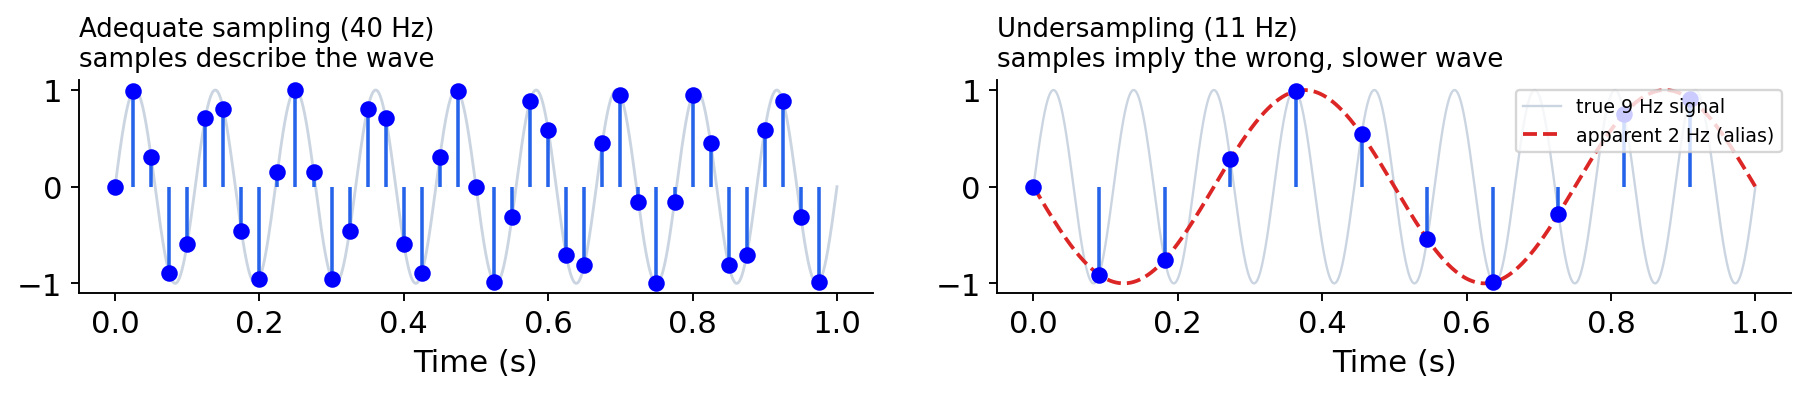
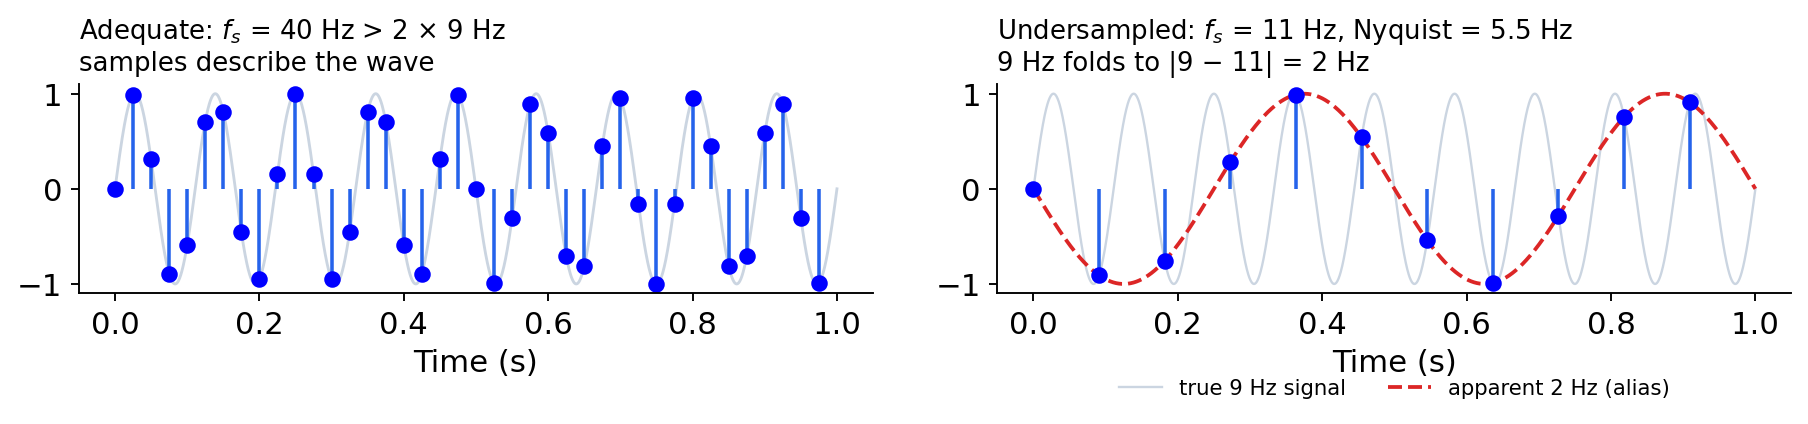
changes in lecture 2

diff --git a/lectures/lecture2.md b/lectures/lecture2.md
@@ -44,7 +44,7 @@ title: Today
 
 - **Linguistic units**: syllable, vowel, consonant
 - **Acoustics**: waveform, amplitude, frequency, Hertz, period
-- **Digitization**: sampling, quantization, framing
+- **Digitization**: sampling, Nyquist and aliasing, quantization, framing
 - **Describing the signal**: pitch, loudness, intensity, F0
 - **Formants**: why vowels sound different
 - **Spectrogram**: putting all of it into one picture
@@ -92,11 +92,11 @@ title: Syllable structure
 
 :: content ::
 
-- A **syllable** is a single unbroken unit of spoken sound that contains exactly **one vowel** sound, with or without surrounding consonant sounds.
-- The vowel at the core is the **nucleus** (every syllable has exactly one); consonants before it are the **onset**, after it the **coda**. Nucleus + coda = the **rime**.
-- <span dir="rtl" lang="ar" class="font-bold">مَدْرَسَة</span> (madrasa) splits into onset·nucleus syllables just like "banana" does.
+- A **syllable** is a single unbroken unit of spoken sound built around exactly **one nucleus**, usually a vowel, with or without surrounding consonant sounds.
+- The **nucleus** is the core (every syllable has exactly one); consonants before it are the **onset**, after it the **coda**. Nucleus + coda = the **rime**. The nucleus can also be a consonant: *button*.
+- Examples: "banana" and <span dir="rtl" lang="ar" class="font-bold">مَدْرَسَة</span> (madrasa).
 
-<img src="./images/lec2_syllable.png" class="w-full mt-3" style="max-height: 260px; object-fit: contain;" />
+<img src="./images/lec2_syllable.png" class="w-full mt-3" style="max-height: 200px; object-fit: contain;" />
 
 ---
 layout: top-title-two-cols
@@ -114,7 +114,7 @@ title: Vowel vs consonant
 
 ## Vowels
 
-- Open vocal tract, no major obstruction — always voiced.
+- Open vocal tract, no major obstruction; normally voiced (exceptions: whispered vowels, and devoiced vowels such as the final *u* in Japanese *desu*).
 - Carry the syllable nucleus; tend to be louder and longer.
 
 <AdmonitionType type='important'>
@@ -158,14 +158,15 @@ title: Waveform
 
 - Speech is air pressure changing over time. The **waveform** plots that pressure (y-axis) against time (x-axis).
 - A pure tone is a sine wave: $y = A \sin(2\pi f t)$
-- Real speech is a sum of many such waves at once — that's what makes it look messy, not random.
+- **Voiced** speech (vowels, nasals) is a sum of many such waves at once: messy-looking, but not random, because it repeats.
+- **Voiceless** sounds (/s/, /f/, bursts, aspiration) are aperiodic noise: they really are random-looking.
 - Silence, a vowel, and a consonant each leave a visually distinct signature.
 
 :: right ::
 
 <img src="./images/lec2_waveform_cat.png" class="w-full" />
 
-Idealized waveform for **"cat"**: burst (/k/), a periodic, voiced stretch (/æ/), then a second burst (/t/).
+Idealized waveform for **"cat"**: the /k/ burst and aspiration (aperiodic noise) run straight into the periodic, voiced /æ/; then silence while the tongue closes for /t/, and its release burst.
 
 ---
 layout: top-title
@@ -182,9 +183,10 @@ title: Amplitude
 
 - **Amplitude** is the size of the pressure swing — how far the waveform deflects from zero.
 - Larger amplitude → louder sound (we'll formalize "loud" as intensity shortly).
-- The same word, spoken loud vs. soft, has the same *shape* but a different *scale*.
+- Turning a **volume knob** only rescales the waveform: same *shape*, different *size*.
+<!-- - A **speaker** talking louder changes more than size: vocal effort raises F0 and F1, flattens the spectral tilt (sharper pulses, more high-frequency energy), and lengthens vowels, automatically so in noise (the **Lombard effect**). Gain normalization can't undo that. -->
 
-<img src="./images/lec2_amplitude.png" class="w-full mt-2" style="max-height: 260px; object-fit: contain;" />
+<img src="./images/lec2_amplitude.png" class="w-full mt-2" style="max-height: 190px; object-fit: contain;" />
 
 ---
 layout: top-title-two-cols
@@ -204,7 +206,7 @@ title: Frequency, Hz, period
 - **Hertz (Hz)**: the unit of frequency — 1 Hz = 1 cycle/second.
 - **Period** ($T$): the time for *one* cycle to complete: $T = 1/f$.
 - A pure 440 Hz tone repeats every $1/440 \approx 2.27$ ms.
-- Speech is **not** a pure tone — it's periodic-*ish*, a sum of a fundamental frequency plus its harmonics (multiples of it).
+- Voiced speech is **not** a pure tone: it's quasi-periodic, a fundamental frequency plus harmonics at integer multiples of it. Voiceless sounds (/s/, /f/) have no period at all.
 
 :: right ::
 
@@ -235,14 +237,34 @@ title: Sampling
 :: content ::
 
 - The waveform is **continuous** — infinitely many values in any interval. A computer can't store that, so **sampling** measures the amplitude at regular intervals and keeps only those points.
-- **Sampling rate**: samples/second (Hz). Microphone data: **16 kHz**; telephone speech: **8 kHz**.
-- Sampling too slowly creates a false lower-frequency wave (aliasing), and it causes audible distortion.
-
-<img src="./images/lec2_aliasing.png" class="w-full mt-2" style="max-height: 230px; object-fit: contain;" />
+- **Sampling rate** $f_s$: samples/second (Hz).
+  - Phones and laptops typically record at **44.1 or 48 kHz**. 
+  - Most ASR models expect **16 kHz** (wideband speech).
+  - Telephone speech: **8 kHz** (narrowband, roughly 300–3400 Hz passes).
+- A sampling rate can only represent frequencies below **half** of it (next slide).
 
 <AdmonitionType type='important'>
-Sample fast enough to capture the frequencies that matter — mostly below 8 kHz for speech intelligibility, which is why 16 kHz is standard.
+16 kHz keeps everything below 8 kHz, which covers the frequencies that matter most for intelligibility. That's why it's the ASR standard.
 </AdmonitionType>
+
+---
+layout: top-title
+color: light
+align: lt
+title: Nyquist and aliasing
+---
+
+:: title ::
+
+# Nyquist and Aliasing
+
+:: content ::
+
+- **Nyquist rule**: to represent a frequency $f_{max}$ you need $f_s > 2 f_{max}$. Equivalently, $f_s/2$ (the **Nyquist frequency**) is the highest frequency a sampling rate can hold.
+- A component above $f_s/2$ doesn't disappear: it **folds** to $|f - k \cdot f_s|$ (the nearest multiple $k$ of $f_s$), a false lower-frequency wave. That is **aliasing**.
+- In the figure: $f_s = 11$ Hz, so Nyquist is 5.5 Hz, and the 9 Hz wave shows up as $|9 - 11| = 2$ Hz.
+
+<img src="./images/lec2_aliasing.png" class="w-full mt-2" style="max-height: 170px; object-fit: contain;" />
 
 
 ---
@@ -260,7 +282,7 @@ title: Quantization
 
 - Bit: the basic unit of digital storage — a single binary digit, either 0 or 1. n bits can represent 2ⁿ distinct values, so more bits = more possible amplitude levels to round to. 
 - Bit depth is simply how many bits are used per sample.
-- Quantization measures how precisely each amplitude is rounded to one of a fixed number of levels, set by the **bit depth**.
+- **Quantization** rounds each sample's amplitude to the nearest of a fixed number of levels, set by the **bit depth**.
 - 16-bit audio → 65,536 levels, rounding error (**quantization noise**) far too small to hear.
 - Fewer bits → fewer levels → a visible "staircase" and audible noise.
 
@@ -282,9 +304,9 @@ title: Framing
 
 - Speech is **non-stationary** — its frequency content changes constantly, but most analysis techniques (starting next week: DFT/FFT) assume the signal is stationary over the window they look at.
 - Solution: **framing** — cut the signal into short, overlapping windows (~25 ms, sliding by ~10 ms), short enough to look roughly stationary inside each one.
-- Overlap ensures we don't miss anything that falls near a frame boundary.
+- Each frame is multiplied by a **window** (e.g., Hamming) that fades its edges toward zero; overlap gives samples near one frame's edge full weight in the next frame.
 
-<img src="./images/lec2_framing.png" class="w-full mt--1" />
+<img src="./images/lec2_framing.png" class="w-full mt--3" />
 
 <AdmonitionType type='tip'>
 "Frame length and hop size" reappear in exactly this form for STFT and MFCCs next week.
@@ -315,16 +337,17 @@ title: Pitch, loudness, intensity
 
 :: content ::
 
-- **Intensity**: the physical energy of the sound wave — proportional to amplitude squared ($I \propto A^2$). Measured in decibels (dB).
+- **Intensity**: the power per unit area carried by the sound wave, proportional to amplitude squared ($I \propto A^2$), in decibels relative to a reference (dB SPL in air). 
 - **Loudness**: our *perception* of intensity. Related to intensity, but not identical — perception is nonlinear and frequency-dependent.
 - **Pitch**: our *perception* of frequency — how high or low a sound seems. Related to frequency, but subjective.
 
 <!-- :: right :: -->
 
-- **F0 (fundamental frequency)**: the physical measurement most closely underlying perceived pitch — the lowest, dominant frequency of a periodic waveform (the rate the vocal folds vibrate at).
+- **F0 (fundamental frequency)**: the physical measurement most closely underlying perceived pitch: the repetition rate of a periodic waveform ($1/T$), i.e., the rate the vocal folds vibrate at. 
+  <!-- Harmonics sit at integer multiples of F0; F0 itself need not be the strongest component, or even present (telephone speech cuts below ~300 Hz, yet a ~110 Hz male pitch is still heard: the **missing fundamental**). -->
 
 <AdmonitionType type='note'>
-Keep the pattern straight: <strong>F0/intensity</strong> are what we measure from the signal; <strong>pitch/loudness</strong> are what a listener experiences. They correlate strongly but are not the same thing.
+<strong>F0/intensity</strong> are what we measure from the signal; <strong>pitch/loudness</strong> are what a listener experiences. They correlate strongly but are not the same thing.
 </AdmonitionType>
 
 ---
@@ -342,8 +365,9 @@ title: F0 contour
 
 - F0 isn't a single number for a whole utterance — it changes continuously. Tracking it frame-by-frame gives a **pitch contour** (or **pitch track**).
 - The same words, said with a different pitch contour, can mean something different.
+- F0 exists only where the vocal folds vibrate: the track **breaks** at the voiceless /k/ of "coming". That gap is exactly the voiced/unvoiced marking you'll do in Assignment 2.
 
-<img src="./images/lec2_f0_contour.png" class="w-full mt-3" style="max-height: 280px; object-fit: contain;" />
+<img src="./images/lec2_f0_contour.png" class="w-full mt-2" style="max-height: 170px; object-fit: contain;" />
 
 <AdmonitionType type='note'>
 <strong>RMS (root-mean-square) amplitude</strong> — the standard frame-level measurement of intensity, computed the same frame-by-frame way as F0.
@@ -374,7 +398,7 @@ title: Source-filter model
 
 :: content ::
 
-- **Source**: the vocal folds vibrate, producing a buzz-like sound rich in harmonics (multiples of F0).
+- **Source**: in voiced sounds, the vocal folds vibrate, producing a buzz-like sound rich in harmonics (multiples of F0). In voiceless sounds, the source is turbulent **noise** at a constriction (/s/, /f/, aspiration, bursts), with no F0 at all. Voiced fricatives (/z/, /v/) use both sources at once.
 - **Filter**: the vocal tract (throat, mouth, nose) is a resonant cavity whose *shape* — set by tongue position, jaw, lips — amplifies some frequencies and damps others.
 - Change the vocal tract shape (move your tongue) without changing the source (F0), and you change which frequencies come through loudest — that's what turns the same buzz into different vowels.
 - The frequencies the vocal tract resonates at, and therefore amplifies, are called **formants**.
@@ -384,9 +408,10 @@ Say "ee" then "ah" while gently touching your throat — the buzz (source) barel
 </AdmonitionType>
 
 ---
-layout: top-title
+layout: top-title # -two-cols
 color: light
-align: lt
+columns: is-7
+# align: l-lt-cm
 title: F1 and F2
 ---
 
@@ -396,11 +421,15 @@ title: F1 and F2
 
 :: content ::
 
-- Formants are numbered by frequency, lowest first: **F1** is the vocal tract's *lowest* resonant frequency, **F2** the *next* one up (F3, F4, … exist too, but F1/F2 carry most of the information that distinguishes vowels).
-- On a spectrogram, formants appear as the darkest horizontal bands above F0 — literally the frequency ranges the vocal tract let through the loudest.
-- **F1 correlates with tongue height**: high tongue (e.g. "ee") → low F1; low tongue (e.g. "ah") → high F1.
-- **F2 correlates with tongue frontness/backness**: front tongue (e.g. "ee") → high F2; back tongue (e.g. "oo") → low F2.
-- This means F1/F2 aren't arbitrary numbers — they're a direct readout of where your tongue was.
+- **F1** is the vocal tract's *lowest* resonance, **F2** the *next* one up; they carry most of what distinguishes vowels.
+<!-- - On a spectrogram: dark horizontal bands. They're resonances of the filter, not harmonics, so they don't depend on F0, and needn't lie above it (a child's F0 can reach the F1 of /i/). -->
+- **F1 ↔ tongue height**: high ("ee") → low F1; low ("ah") → high F1.
+- **F2 ↔ frontness**: front ("ee") → high F2; back ("oo") → low F2. **Lip rounding** also lowers F2.
+<!-- - **Not a direct readout**: a shorter vocal tract raises *every* formant (women, children), and different articulations can give the same formants. Hence speaker normalization in ASR (e.g., VTLN). -->
+
+<!-- :: right ::
+
+<img src="./images/lec2_formant_vowel_space.png" class="w-full" /> -->
 
 
 ---
@@ -427,11 +456,10 @@ title: Spectrogram
 
 :: content ::
 
-<img src="./images/lec2_spectrogram_banana.png" class="w-full mt-1" style="max-height: 270px; object-fit: contain;" />
+<img src="./images/lec2_spectrogram_banana.png" class="w-full mt-1" style="max-height: 235px; object-fit: contain;" />
 
-- A **spectrogram** is a picture of sound: time on the x-axis, frequency on the y-axis, darkness/color showing energy.
-- Readable in one picture: **voiced** regions (formant bands, dark low down), **bursts** (a vertical smear), **silence** (blank), **formants** (dark horizontal bands — F1 low, F2 above).
-
+- A **spectrogram** is a picture of sound: time on the x-axis, frequency on the y-axis, darkness showing energy (Praat's grayscale; in color maps such as magma, *brighter* = more energy).
+- **Vowels**: vertical lines (one for each vocal cord vibration) with thick dark horizontal stripes (**formant**) showing the main pitch levels (F1 low, F2 above). **Nasal** still voiced but weaker, energy mostly in a low band near 250 Hz, with no burst or silence. **Bursts**: a thin vertical smudge (the /b/ here is short and weak). **Silence**: blank space.
 
 ---
 layout: section
@@ -455,11 +483,11 @@ title: Summary
 
 :: content ::
 
-- A syllable is onset + nucleus (vowel) + coda; vowels are open and voiced, consonants involve some constriction.
-- Waveform = pressure over time; amplitude = size of the swing; frequency (Hz) = cycles/second; period = 1/frequency.
-- **Sampling** discretizes time (16 kHz standard; too slow → aliasing). **Quantization** discretizes amplitude (16-bit standard). **Framing** cuts the signal into short, near-stationary windows.
+- A syllable is onset + nucleus (usually a vowel) + coda; vowels are open and normally voiced, consonants involve some constriction.
+- Waveform = pressure over time; amplitude = size of the swing; frequency (Hz) = cycles/second; period = 1/frequency. Voiced sounds are quasi-periodic; voiceless sounds are noise.
+- **Sampling** discretizes time: $f_s$ must exceed twice the highest frequency (Nyquist); 16 kHz is the ASR standard. **Quantization** discretizes amplitude (16-bit standard). **Framing** cuts the signal into short, near-stationary windows.
 - Intensity/F0 are physical measurements; loudness/pitch are what we perceive.
-- **F1** tracks tongue height, **F2** tracks tongue frontness — together they place a vowel in the vowel space, all visible at once in a **spectrogram**.
+- **F1** mostly tracks tongue height, **F2** frontness (and lip rounding); vocal tract length shifts them all. Together they place a vowel in the vowel space, all visible at once in a **spectrogram**.
 
 Next week: how a spectrogram is actually computed — DFT, FFT, windowing, and the mel scale.
 
@@ -478,10 +506,12 @@ title: Assignment 2
 
 Go back to **your own Assignment 1 recording** (the sentence you recorded and computed WER on).
 
-1. **Plot it**: waveform, short-time (RMS) energy/intensity, and F0 contour. Mark voiced vs. unvoiced regions.
-2. **Measure formants**: pick 2–3 vowels, measure F1/F2 (librosa).
+1. **Plot it**: Mark voiced vs. unvoiced regions.
+2. **Measure formants**: pick 2–3 vowels, measure F1/F2 with Praat; librosa has no formant tracker.
 3. **Annotate a spectrogram** by hand — mark formant bands, bursts, and silence.
-4. **Degrade it**: downsample (16k → 8k → 4k) and requantize (16-bit → 8-bit → 4-bit); re-run each through your Assignment 1 ASR system and recompute WER.
+4. **Degrade it**, re-run each version through your Assignment 1 ASR system, and recompute WER. First resample your recording (probably 44.1/48 kHz) to 16 kHz.
+   - **Downsample** 16k → 8k → 4k.
+   - **Requantize** 16 → 8 → 4 bit.
 5. **Report**: plot WER vs. sampling rate / bit depth. Where does degradation become *audible*, and where does the ASR system actually *break*? Do those points coincide?
 
 ---
